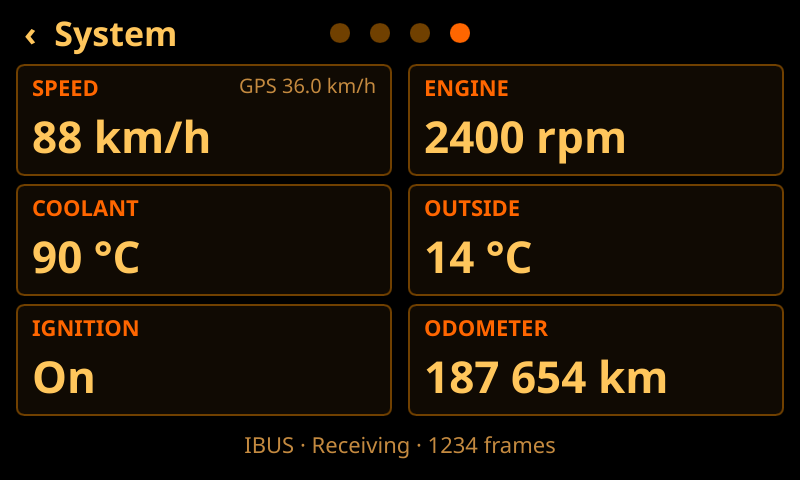
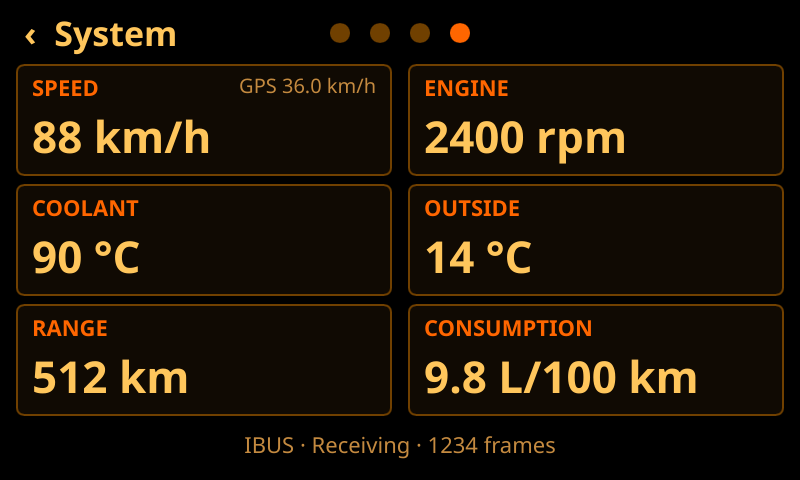
Show range and consumption on the I-Bus page, not ignition and odometer
The cluster's on-board computer sends its values as text (0x24): all of
them as the ignition comes on, then from time to time. Its range (0x06)
and average consumption 1 (0x04) take the Ignition and Odometer tiles;
dashes, or miles and mpg, show n/a. The odometer leaves the snapshot. The
ignition is still read, for the speeds and the shutdown.

diff --git a/crates/ui/src/main.rs b/crates/ui/src/main.rs
@@ -14,10 +14,9 @@ use config::{KeyboardConfig, UiConfig};
 use input::{KeyAction, KeyMap};
 use ipc::IpcEvent;
 use navbridge_common::{
-    video_frame_path, AppSnapshot, ClientCommand, Ignition, NavigationKey, ProjectionEvent,
-    ServerEvent, StreamFormat, TouchKind, VehicleSnapshot, VideoCodec, CALL_VOLUME_DB,
-    DEFAULT_SOCKET_PATH, MEDIA_HEIGHT, MEDIA_WIDTH, UI_HEIGHT, UI_WIDTH, VIDEO_FRAME_HEADER_SIZE,
-    VIDEO_FRAME_MAGIC,
+    video_frame_path, AppSnapshot, ClientCommand, NavigationKey, ProjectionEvent, ServerEvent,
+    StreamFormat, TouchKind, VehicleSnapshot, VideoCodec, CALL_VOLUME_DB, DEFAULT_SOCKET_PATH,
+    MEDIA_HEIGHT, MEDIA_WIDTH, UI_HEIGHT, UI_WIDTH, VIDEO_FRAME_HEADER_SIZE, VIDEO_FRAME_MAGIC,
 };
 use slint::{ComponentHandle, Image, Rgba8Pixel, SharedPixelBuffer};
 use tracing_subscriber::EnvFilter;
@@ -860,8 +859,8 @@ fn render_state(ui: &AppWindow, state: &UiState) {
     ui.set_vehicle_rpm(reading(vehicle.rpm, "rpm").into());
     ui.set_vehicle_coolant(reading(vehicle.coolant_c, "°C").into());
     ui.set_vehicle_outside(reading(vehicle.outside_c, "°C").into());
-    ui.set_vehicle_ignition(ignition_text(vehicle.ignition).into());
-    ui.set_vehicle_odometer(odometer(vehicle.odometer_km).into());
+    ui.set_vehicle_range(kilometres(vehicle.range_km).into());
+    ui.set_vehicle_consumption(consumption(vehicle.consumption_dl).into());
     // Frames that arrive while projection cannot be shown are skipped; pick up
     // the newest one as soon as it can be, without waiting for the phone.
     refresh_projection(ui, state);
@@ -1288,19 +1287,8 @@ fn gnss_speed(speed: &str) -> String {
     }
 }
 
-fn ignition_text(ignition: Option<Ignition>) -> String {
-    match ignition {
-        None => "n/a",
-        Some(Ignition::Off) => "Off",
-        Some(Ignition::Accessory) => "Position 1",
-        Some(Ignition::On) => "On",
-        Some(Ignition::Starting) => "Starting",
-    }
-    .into()
-}
-
-/// "123 456 km".
-fn odometer(km: Option<u32>) -> String {
+/// "1 024 km".
+fn kilometres(km: Option<u16>) -> String {
     let Some(km) = km else {
         return "n/a".into();
     };
@@ -1313,6 +1301,14 @@ fn odometer(km: Option<u32>) -> String {
         grouped.push(digit);
     }
     format!("{grouped} km")
+}
+
+/// Tenths of a litre per 100 km, as "13.2 L/100 km".
+fn consumption(dl: Option<u16>) -> String {
+    match dl {
+        Some(dl) => format!("{}.{} L/100 km", dl / 10, dl % 10),
+        None => "n/a".into(),
+    }
 }
 
 /// An Audio row pair: stereo or mono, and the sampling rate, while the stream
@@ -2525,12 +2521,13 @@ mod vehicle_tests {
             interface: true,
             frames: 1234,
             bad_lines: 2,
-            ignition: Some(Ignition::On),
+            ignition: Some(navbridge_common::Ignition::On),
             speed_kmh: Some(120),
             rpm: Some(3000),
             coolant_c: Some(90),
             outside_c: Some(-4),
-            odometer_km: Some(123_456),
+            range_km: Some(473),
+            consumption_dl: Some(132),
             handbrake: Some(true),
             low_beam: Some(true),
             reverse: Some(false),
@@ -2542,11 +2539,10 @@ mod vehicle_tests {
         assert_eq!(reading(vehicle.speed_kmh, "km/h"), "120 km/h");
         assert_eq!(reading(vehicle.rpm, "rpm"), "3000 rpm");
         assert_eq!(reading(vehicle.outside_c, "°C"), "-4 °C");
-        assert_eq!(ignition_text(vehicle.ignition), "On");
-        assert_eq!(ignition_text(Some(Ignition::Accessory)), "Position 1");
-        assert_eq!(odometer(vehicle.odometer_km), "123 456 km");
-        assert_eq!(odometer(Some(1_000)), "1 000 km");
-        assert_eq!(odometer(Some(987)), "987 km");
+        assert_eq!(kilometres(vehicle.range_km), "473 km");
+        assert_eq!(kilometres(Some(1_024)), "1 024 km");
+        assert_eq!(consumption(vehicle.consumption_dl), "13.2 L/100 km");
+        assert_eq!(consumption(Some(90)), "9.0 L/100 km");
         assert_eq!(gnss_speed("36.0 km/h"), "GPS 36.0 km/h");
         assert_eq!(gnss_speed(""), "");
 
@@ -2556,8 +2552,8 @@ mod vehicle_tests {
         };
         assert_eq!(vehicle_status(&unknown, true), "Interface not connected");
         assert_eq!(reading(unknown.rpm, "rpm"), "n/a");
-        assert_eq!(ignition_text(unknown.ignition), "n/a");
-        assert_eq!(odometer(unknown.odometer_km), "n/a");
+        assert_eq!(kilometres(unknown.range_km), "n/a");
+        assert_eq!(consumption(unknown.consumption_dl), "n/a");
         // Without the core, nothing is known about the car.
         assert_eq!(vehicle_status(&vehicle, false), "Unavailable");
     }
@@ -2658,12 +2654,13 @@ mod preview {
             interface: true,
             frames: 1234,
             bad_lines: 0,
-            ignition: Some(Ignition::On),
+            ignition: Some(navbridge_common::Ignition::On),
             speed_kmh: Some(88),
             rpm: Some(2400),
             coolant_c: Some(90),
             outside_c: Some(14),
-            odometer_km: Some(187_654),
+            range_km: Some(512),
+            consumption_dl: Some(98),
             handbrake: Some(false),
             low_beam: Some(false),
             reverse: Some(false),

diff --git a/crates/core/src/services/ibus/mod.rs b/crates/core/src/services/ibus/mod.rs
@@ -319,7 +319,10 @@ struct State {
     speed: Option<(u16, u16, Instant)>,
     /// Outside and coolant, in °C.
     temperatures: Option<(i8, i8)>,
-    odometer: Option<u32>,
+    /// The on-board computer's range, in km, and consumption, in tenths of a
+    /// litre per 100 km: they hold until it sends them again.
+    range_km: Option<u16>,
+    consumption_dl: Option<u16>,
     /// The cluster says so when they change: they hold until then.
     handbrake: Option<bool>,
     reverse: Option<bool>,
@@ -379,7 +382,8 @@ impl State {
             Some(Reading::Temperatures { outside, coolant }) => {
                 self.temperatures.replace((outside, coolant)) != Some((outside, coolant))
             }
-            Some(Reading::Odometer { km }) => self.odometer.replace(km) != Some(km),
+            Some(Reading::Range(km)) => std::mem::replace(&mut self.range_km, km) != km,
+            Some(Reading::Consumption(dl)) => std::mem::replace(&mut self.consumption_dl, dl) != dl,
             Some(Reading::Sensors { handbrake, reverse }) => {
                 let pulled = self.handbrake.replace(handbrake) != Some(handbrake);
                 let shifted = self.reverse.replace(reverse) != Some(reverse);
@@ -423,7 +427,8 @@ impl State {
             vehicle.outside_c = Some(outside);
             vehicle.coolant_c = Some(coolant);
         }
-        vehicle.odometer_km = self.odometer;
+        vehicle.range_km = self.range_km;
+        vehicle.consumption_dl = self.consumption_dl;
         vehicle.handbrake = self.handbrake;
         vehicle.reverse = self.reverse;
         vehicle.low_beam = self.low_beam;
@@ -594,7 +599,12 @@ mod tests {
         };
         assert!(state.frame(Some(temperatures), start));
         assert!(!state.frame(Some(temperatures), start), "unchanged");
-        state.frame(Some(Reading::Odometer { km: 123_456 }), start);
+        state.frame(Some(Reading::Range(Some(473))), start);
+        assert!(state.frame(Some(Reading::Consumption(Some(132))), start));
+        assert!(
+            !state.frame(Some(Reading::Consumption(Some(132))), start),
+            "unchanged"
+        );
         assert_eq!(state.snapshot(start).handbrake, None, "not reported yet");
         let in_reverse = Reading::Sensors {
             handbrake: true,
@@ -608,8 +618,8 @@ mod tests {
         assert_eq!((v.speed_kmh, v.rpm), (Some(50), Some(1500)));
         assert_eq!((v.outside_c, v.coolant_c), (Some(12), Some(85)));
         assert_eq!(
-            (v.odometer_km, v.ignition, v.frames),
-            (Some(123_456), None, 7)
+            (v.range_km, v.consumption_dl, v.ignition, v.frames),
+            (Some(473), Some(132), None, 9)
         );
         assert_eq!(
             (v.handbrake, v.reverse, v.low_beam),
@@ -617,12 +627,12 @@ mod tests {
         );
 
         // Other frames keep the bus alive: a speed not sent again goes stale,
-        // while temperatures and distance, which change slowly, stay.
+        // while temperatures and the on-board computer's values stay.
         state.frame(None, at(9));
         state.frame(Some(Reading::Ignition(Ignition::On)), at(11));
         let v = state.snapshot(at(11));
         assert_eq!((v.speed_kmh, v.rpm), (None, None));
-        assert_eq!((v.coolant_c, v.odometer_km), (Some(85), Some(123_456)));
+        assert_eq!((v.coolant_c, v.range_km), (Some(85), Some(473)));
         assert_eq!(v.ignition, Some(Ignition::On));
         assert_eq!(
             (v.handbrake, v.reverse),
@@ -643,7 +653,8 @@ mod tests {
         // A quiet bus: the car is asleep, and nothing is current.
         let v = state.snapshot(at(24));
         assert_eq!(v.status, "No I-Bus traffic");
-        assert_eq!((v.ignition, v.coolant_c, v.frames), (None, None, 11));
+        assert_eq!((v.ignition, v.coolant_c, v.frames), (None, None, 13));
+        assert_eq!((v.range_km, v.consumption_dl), (None, None));
         assert_eq!((v.handbrake, v.reverse, v.low_beam), (None, None, None));
         assert!(v.interface, "the interface is still open");
         // Losing the interface forgets the car at once, but not the counts.
@@ -651,7 +662,7 @@ mod tests {
         state.closed("Interface not connected".into());
         let v = state.snapshot(at(13));
         assert_eq!(v.status, "Interface not connected");
-        assert_eq!((v.coolant_c, v.frames, v.bad_lines), (None, 11, 1));
+        assert_eq!((v.coolant_c, v.frames, v.bad_lines), (None, 13, 1));
         assert!(!v.interface);
     }
 

diff --git a/crates/core/src/services/ibus/frame.rs b/crates/core/src/services/ibus/frame.rs
@@ -36,9 +36,11 @@ pub enum Reading {
         outside: i8,
         coolant: i8,
     },
-    Odometer {
-        km: u32,
-    },
+    /// From the cluster's on-board computer, as it shows them: the range
+    /// left, in km, and the average consumption ("Consumption 1"), in tenths
+    /// of a litre per 100 km; `None` while it shows none, or another unit.
+    Range(Option<u16>),
+    Consumption(Option<u16>),
     /// From the cluster's sensor status: the handbrake is pulled, and the
     /// gearbox, manual or automatic, is in reverse.
     Sensors {
@@ -116,9 +118,16 @@ pub fn decode(frame: &Frame) -> Option<Reading> {
             outside: outside as i8,
             coolant: coolant as i8,
         }),
-        (CLUSTER, &[0x17, low, middle, high, ..]) => Some(Reading::Odometer {
-            km: u32::from_le_bytes([low, middle, high, 0]),
-        }),
+        // The on-board computer's values, as text, to every display: all of
+        // them as the ignition comes on, then from time to time. The first
+        // byte says which value, 0x06 the range and 0x04 consumption 1; the
+        // second holds display flags.
+        (CLUSTER, &[0x24, 0x06, _, ref text @ ..]) => Some(Reading::Range(
+            tenths(text, "KM").and_then(|tenths| u16::try_from(tenths / 10).ok()),
+        )),
+        (CLUSTER, &[0x24, 0x04, _, ref text @ ..]) => Some(Reading::Consumption(
+            tenths(text, "L/100").and_then(|tenths| u16::try_from(tenths).ok()),
+        )),
         // The handbrake is its first byte's lowest bit; the others are
         // warnings, such as worn brake pads. The next byte's high half is the
         // gearbox's position, 1 in reverse with a manual one too, and its
@@ -132,6 +141,30 @@ pub fn decode(frame: &Frame) -> Option<Reading> {
         (LIGHTS, &[0x5B, lamps, ..]) => Some(Reading::LowBeam(lamps & 0x02 != 0)),
         _ => None,
     }
+}
+
+/// A number as the on-board computer shows it, in tenths: " 473" is 4730,
+/// "13.2" is 132. Some clusters add the unit, which must then be `unit`;
+/// dashes, no number or another unit (miles, mpg) give `None`.
+fn tenths(text: &[u8], unit: &str) -> Option<u32> {
+    let text = std::str::from_utf8(text).ok()?;
+    let text = text.trim_matches(|c: char| c.is_ascii_whitespace() || c == '\0');
+    let end = text
+        .find(|c: char| !(c.is_ascii_digit() || c == '.'))
+        .unwrap_or(text.len());
+    let (number, rest) = text.split_at(end);
+    if !(rest.trim().is_empty() || rest.trim().eq_ignore_ascii_case(unit)) {
+        return None;
+    }
+    let (whole, tenth) = number.split_once('.').unwrap_or((number, "0"));
+    if tenth.len() != 1 {
+        return None;
+    }
+    whole
+        .parse::<u32>()
+        .ok()?
+        .checked_mul(10)?
+        .checked_add(tenth.parse().ok()?)
 }
 
 /// A button on the board monitor or the steering wheel, by the name
@@ -416,11 +449,23 @@ mod tests {
                 coolant: 90
             })
         );
-        // 0x01E240 km, least significant byte first.
+        // The on-board computer's range and consumption, as heard in the car.
         assert_eq!(
-            read("IBUS1 RX 3 800ABF1740E2010000000081"),
-            Some(Reading::Odometer { km: 123_456 })
+            read("IBUS1 RX 3 8009FF2406002034373344"),
+            Some(Reading::Range(Some(473)))
         );
+        assert_eq!(
+            read("IBUS1 RX 3 8009FF24040031332E3248"),
+            Some(Reading::Consumption(Some(132)))
+        );
+        // As other clusters show them, and what is not a value in km or L/100.
+        assert_eq!(tenths(b"  70", "KM"), Some(700));
+        assert_eq!(tenths(b"123 KM ", "KM"), Some(1230));
+        assert_eq!(tenths(b"12.3 L/100", "L/100"), Some(123));
+        assert_eq!(tenths(b"----", "KM"), None);
+        assert_eq!(tenths(b"  45 MLS", "KM"), None);
+        assert_eq!(tenths(b"18.6 MPG", "L/100"), None);
+        assert_eq!(tenths(b"", "KM"), None);
         // Handbrake on, brake pads worn, engine running, no gear: a manual
         // gearbox out of reverse.
         assert_eq!(

diff --git a/crates/common/src/lib.rs b/crates/common/src/lib.rs
@@ -258,7 +258,13 @@ pub struct VehicleSnapshot {
     pub rpm: Option<u16>,
     pub coolant_c: Option<i8>,
     pub outside_c: Option<i8>,
-    pub odometer_km: Option<u32>,
+    /// The range left, in km, from the cluster's on-board computer.
+    #[serde(default)]
+    pub range_km: Option<u16>,
+    /// Average consumption ("Consumption 1"), in tenths of a litre per
+    /// 100 km, from the cluster's on-board computer.
+    #[serde(default)]
+    pub consumption_dl: Option<u16>,
     /// The handbrake is pulled, as the cluster last reported it.
     #[serde(default)]
     pub handbrake: Option<bool>,

diff --git a/README.md b/README.md
@@ -11,8 +11,8 @@ provide iPhone CarPlay.
 Music, navigation/assistant playback and assistant microphone capture use the
 PCM2912A USB codec. An external GNSS receiver shows on the System page and, when
 connected as the phone connects, gives Android Auto the car's position. The
-last System page shows the car's speed, engine speed, temperatures, ignition
-and odometer from its I-Bus, through the carrier board's ATmega32U4.
+last System page shows the car's speed, engine speed, temperatures, range and
+consumption from its I-Bus, through the carrier board's ATmega32U4.
 
 ## Screenshots
 
@@ -33,7 +33,7 @@ the car's panel shows the same layout at 400x240. The data is sample data.
 
 | System: GNSS | System: the car, from its I-Bus |
 | --- | --- |
-| ![The GNSS receiver, fix, satellites, position, altitude, speed, HDOP and time](docs/screenshots/system-gnss.png) | ![Speed, engine speed, coolant and outside temperatures, ignition and odometer](docs/screenshots/system-ibus.png) |
+| ![The GNSS receiver, fix, satellites, position, altitude, speed, HDOP and time](docs/screenshots/system-gnss.png) | ![Speed, engine speed, coolant and outside temperatures, range and consumption](docs/screenshots/system-ibus.png) |
 
 ## Architecture
 
@@ -366,8 +366,14 @@ From the instrument cluster's broadcasts, System page 4 shows:
 | Speed | `18`, road speed | In steps of 2 km/h; the GNSS speed beside it while there is a fix |
 | Engine | `18`, engine speed | In steps of 100 rpm |
 | Coolant, Outside | `19` | °C |
-| Ignition | `11` | Off, Position 1, On, Starting |
-| Odometer | `17` | km, once something on the bus asks the cluster for it |
+| Range | `24`, value `06` | km left, from the cluster's on-board computer |
+| Consumption | `24`, value `04` | Its average consumption 1, L/100 km |
+
+The on-board computer sends its values as the text it would show: all of them
+as the ignition comes on, then from time to time. Range and consumption hold
+until it sends them again, and show n/a while it shows dashes, or in miles or
+mpg. The ignition (`11`) is not shown but still read: it clears the speeds and
+starts the shutdown (see Shutdown).
 
 A changed reading shows at once. How often one changes is up to the cluster:
 it sends road and engine speed every 2 seconds, and NavBridge cannot ask for

diff --git a/docs/ARCHITECTURE.md b/docs/ARCHITECTURE.md
@@ -211,8 +211,9 @@ Both services require a paired phone over an encrypted link.
 The I-Bus service reads the carrier board's ATmega32U4 on its own thread: one
 line per frame the board hears, which the service checks (length, XOR
 checksum) and decodes when the instrument cluster sends it: ignition (`11`),
-road and engine speed (`18`), outside and coolant temperature (`19`),
-odometer (`17`), and the handbrake and reverse gear, manual or automatic
+road and engine speed (`18`), outside and coolant temperature (`19`), the
+on-board computer's range and consumption (`24`, as text), and the handbrake
+and reverse gear, manual or automatic
 (`13`, sensor status), and when the light module sends it: the low beam
 (`5B`, lamp status). The main loop hands each snapshot to the Android Auto service, which
 takes the speed, the handbrake and the low beam from it; the low beam's changes
